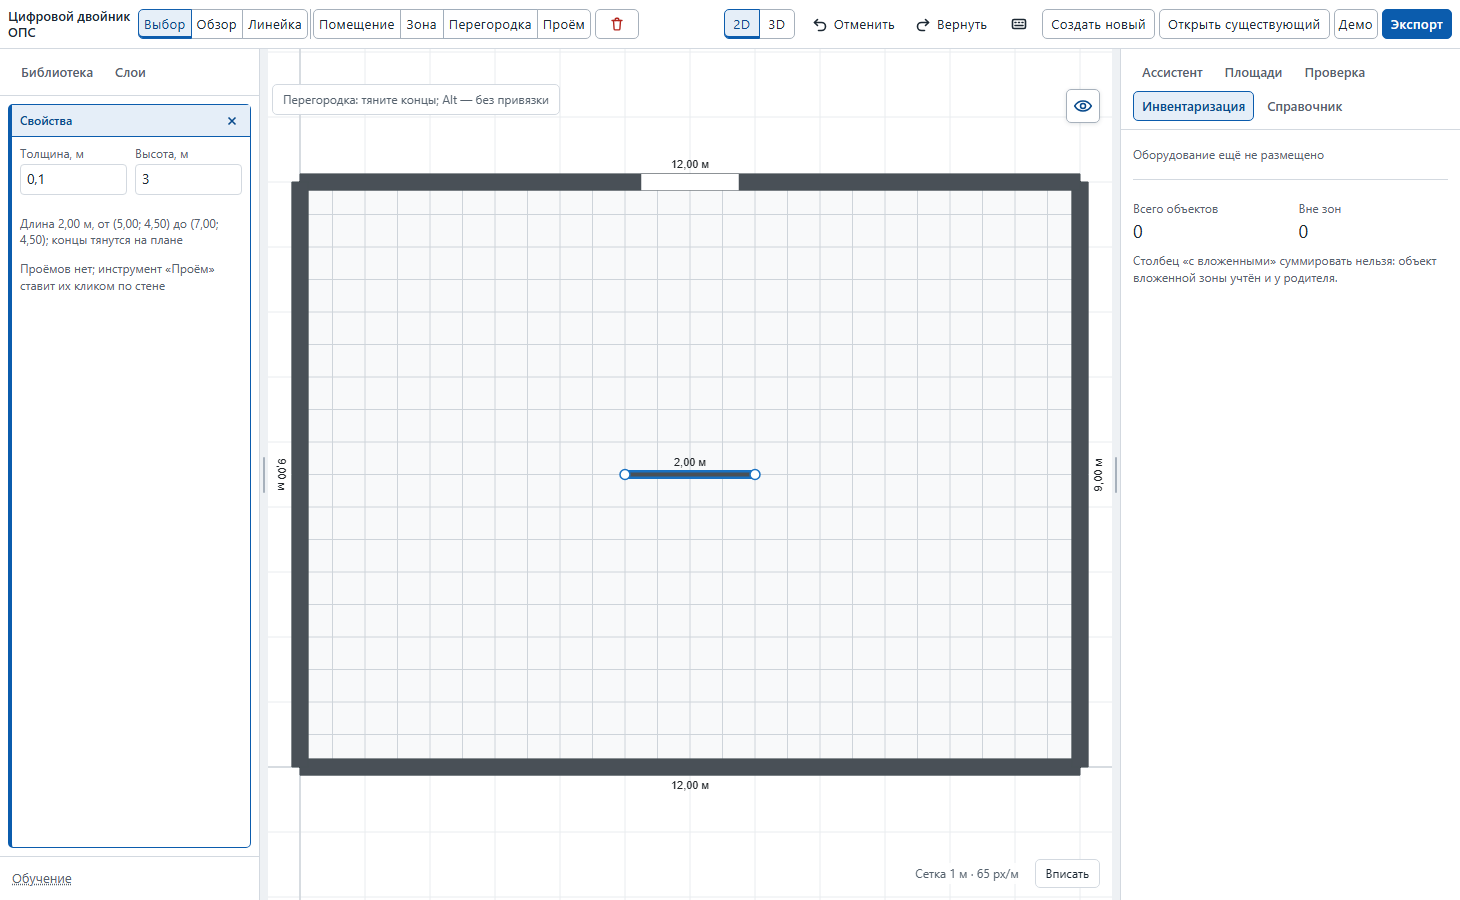
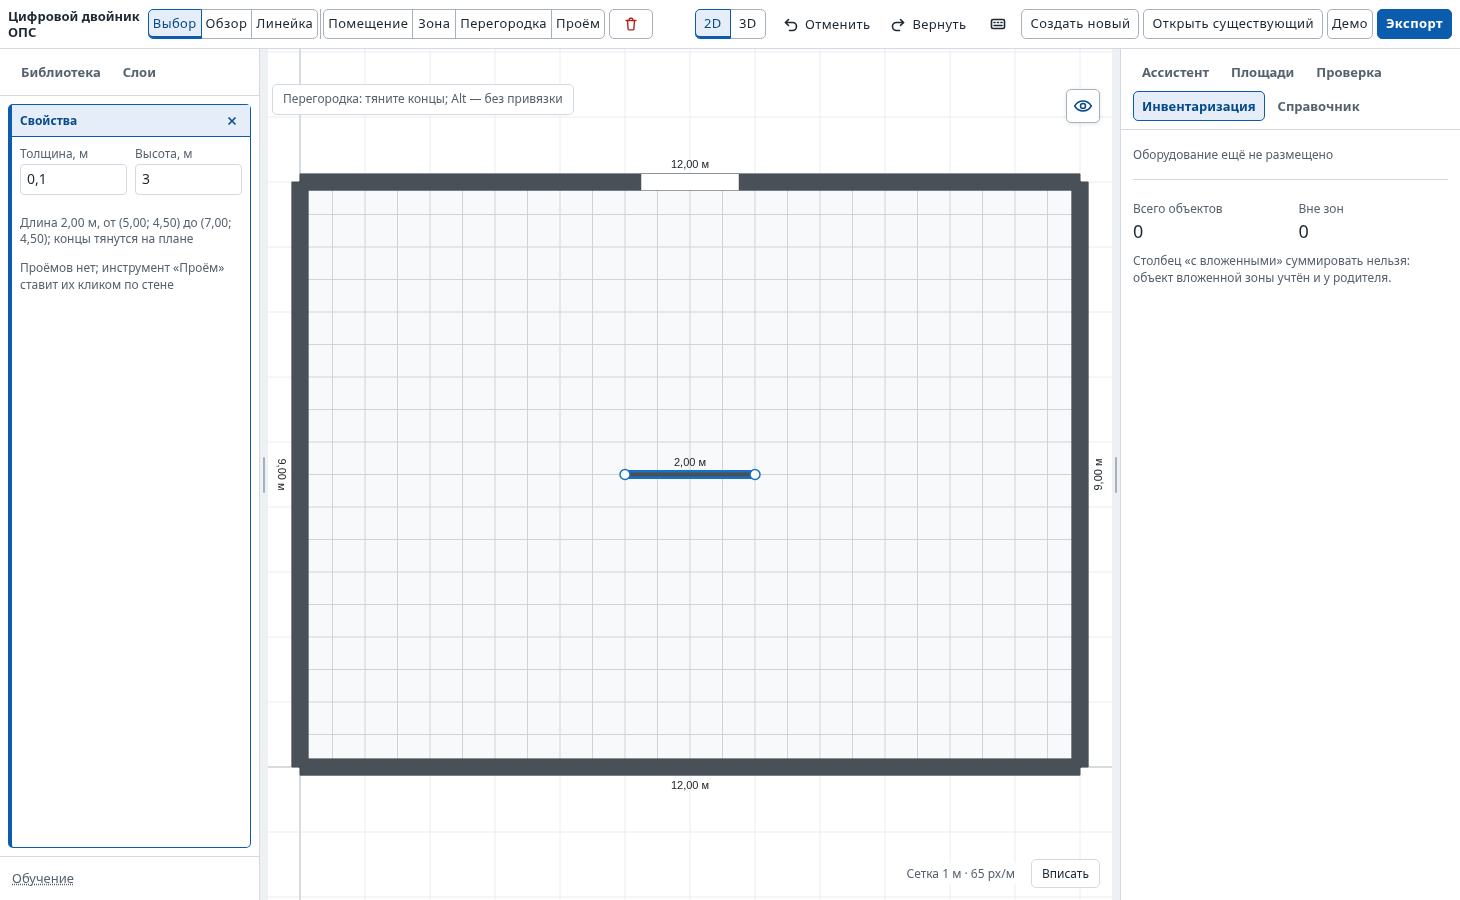
editor: запас шапки на Linux добран до 20 px, блокер #44 закрыт (D-313)
Продолжение MR !314 поверх коммита Максима: базовый вылет 13 px на 1280/1460
уже был закрыт D-316, но стресс-тест «шапка сохраняет запас при более
широких надписях» давал на Linux только 15,2/13,5 px против требуемых 20.
На каждой из шести подписанных кнопок инструментов снято по 1 px внутреннего
поля с каждой стороны (padding-inline 5px → 4px, ≤1500 px) — минимум 44 px и
подписи кнопок не тронуты, «Демо» остаётся отдельной видимой кнопкой.
Итог на Linux: 1280 px — 27,3 px запаса, 1460 px — 25,6 px; shell+open-demo+
onboarding зелёные дважды подряд (34/34), полный набор — 227 passed/1 flaky
(известная нестабильность focus.spec.ts:213)/5 skipped.

diff --git a/src/app/styles.css b/src/app/styles.css
@@ -979,7 +979,12 @@ body {
 
 @media (max-width: 1500px) {
   .toolbar__group-gap { margin-inline: 2px; }
-  .shell__bar .toolbar__button { min-width: 44px; padding-inline: 5px; }
+  /* D-313: D-316's 20 px slack still fell to 15.2/13.5 px on Linux system
+     fonts. One more pixel off each side of a tool button's padding (labelled
+     buttons only — the 44 px floor and icon buttons are untouched, since
+     icon buttons and «Зона» already sit at that floor) buys 12 px back
+     across the six labelled tools without shortening any name. */
+  .shell__bar .toolbar__button { min-width: 44px; padding-inline: 4px; }
 }
 
 /* D-261: the history goes icon-only below 1460 px (was 1400): at 1400–1459 px

diff --git a/docs/decisions.md b/docs/decisions.md
@@ -6,6 +6,7 @@
 
 | # | Дата | Решение | Почему | Отвергнутые варианты |
 |---|---|---|---|---|
+| D-313 | 2026-09-29 | Довели запас стресс-теста D-316 до требуемых 20 px на Linux: у него было 15,2 px на 1280 и 13,5 px на 1460 (Windows-прогон Максима зелёный, Linux-прогон команды — нет). Убрано ещё по 1 px горизонтального поля с каждой стороны у шести подписанных кнопок инструментов (`.shell__bar .toolbar__button`, `padding-inline: 5px → 4px`, ≤1500 px) — «Зона» и иконка «Удалить …» уже стояли на полу 44 px и не сдвинулись. Замер (свободная колонка `.shell__bar`, худшее состояние, стресс с увеличенным межбуквенным интервалом, Linux): 1280 — 15,2 → 27,3 px; 1460 — 13,5 → 25,6 px; `overflow` остаётся ≤ 0 на всех шести ширинах | Из трёх вариантов задачи (зазоры/поля групп; иконка вместо текста у второстепенного действия по D-254; «Демо» в меню «Открыть…») зазор ещё на 1 px — наименее заметная правка: подписи кнопок целы, интерактивная модель не меняется, «Демо» остаётся отдельной видимой кнопкой; 1 px по каждой стороне у 6 кнопок даёт 12 px — с запасом закрывает оба разрыва (4,8 и 6,5 px) без визуально ощутимого сжатия | Уменьшить `--control-h`/порог 44 px — запрещено брифом задачи; «Демо» иконкой или в меню «Открыть…» — меняет находимость и обучение (`onboarding/tour.ts`) ради небольшого разрыва, который закрывается полем; снизить порог `MIN_SLACK_PX` — тест перестал бы значить «запас для другого шрифта» |
 | D-316 | 2026-09-29 | На ширинах до 1500 px шапка отдаёт больше места кнопкам: сокращены боковые поля, межгрупповые зазоры и внутренние поля компактных инструментов; минимальная ширина кнопки инструмента остаётся 44 px. Контроль добавляет 0,4 px межбуквенного интервала к кнопкам, чтобы воспроизвести давление более широкого системного шрифта, и требует свободную колонку не уже 20 px при 1280, 1339, 1340, 1460 и 1500 px | На Linux после появления «Демо» шапка выходила за окно на 13 px; на Windows обычный шрифт скрывал ошибку. Зазор даёт запас для отличий шрифтов, а крупные области нажатия и названия остаются | Уменьшить шрифт или скрыть «Демо»; считать зелёный Windows-прогон доказательством исправления Linux без проверки командой |
 | D-312 | 2026-09-29 | Находка «нет инвентарного номера» — `OBJECT_MISSING_INVENTORY_NUMBER` рядом с `OBJECT_DUPLICATE_INVENTORY_NUMBER` в `validatePlan` (коды модуля, не контракт): предупреждение на каждый физический объект, у типа которого в справочнике объявлен атрибут `inventoryNumber`, а номер пуст (нет, `null`, пробелы, не строка и не число). Сообщение называет объект: «У объекта «…» нет инвентарного номера: впишите номер с ярлыка предмета в карточке.», ссылка и подсветка — след объекта. План, где номера нет ни у одного объекта, реестра не ведёт — находок нет | Специалист по инвентаризации видит предметы, которых нет в реестре: копии (D-311), стёртый в карточке номер, файлы без номеров. Предупреждение, как у дубля (D-266): геометрия цела, номер вводит человек. Без «тихого» правила пример организаторов получил бы 9 одинаковых строк поверх своих геометрических ловушек — тестового набора жюри. Демо-планы находок не получают (у всех 53/54 объектов номер есть): `before` 1/2 → `after` 0/0 не меняется | Ошибка вместо предупреждения; требовать номер у нефизических отметок (розетка, датчик) — это не инвентарь на полу, а их номер в демо — удобство, не обязанность; одна сводная находка «N объектов без номера» вместо строки на объект (не видно, какие) |
 | D-311 | 2026-09-29 | Копия (`Ctrl+C`/`Ctrl+V`, `Ctrl+D`) по-прежнему получает пустой номер (D-266 в силе), свежий номер серии ей не выдаётся; пустоту теперь называет находка D-312. Номер выдаётся там, где объект создаётся из библиотеки (клик и перетаскивание — одна точка `use-equipment-tool-controller.ts`) | Копия — это «такой же предмет» на время расстановки; реестровый номер ей даёт человек, когда предмет существует. Поведение пустого номера закреплено сценарием `tests/e2e/group-edit.spec.ts` (вставка → «Инвентарный номер» пуст) и D-243/D-266; менять его в том же пакете значило бы переписать чужой сценарий. Вариант ассистента («Вставить в план», `src/app/App.tsx` → `candidateObjectForInsert` в `src/domain/advice`) и «Своя фигура» (`src/features/plan-tools`) вне границ пакета: там номер пока не выдаётся, находка D-312 это показывает — подключение `withInventoryNumber` описано в отчёте #11 | Давать копии следующий номер серии (одна логика «новый объект — новый номер», но меняет закреплённое D-266 поведение и чужой e2e); сохранять номер оригинала (дубль — D-266) |

diff --git a/docs/verification/2026-09-29-header-overflow.md b/docs/verification/2026-09-29-header-overflow.md
@@ -10,3 +10,24 @@
 - Независимое ревью diff не выявило блокеров для draft MR; проверка исходного Linux-проявления остаётся обязательной перед merge.
 
 Это fallback проверки UI: доступные в этой сессии навыки полного UI/UX gate отсутствуют. Локальный Windows-прогон и искусственно расширенный шрифт не являются доказательством исправления именно на Linux. Автор исходной находки должен повторить `CI=1 npx playwright test tests/e2e/shell.spec.ts --workers=1` на Linux и подтвердить отсутствие вылета на 1280/1460 перед снятием блокера #44.
+
+## Проверка на Linux (D-313, продолжение #44 после ассайна на alecksandrchicherin)
+
+Исходный Linux-прогон **воспроизвёл** описанное выше: `DEV_PORT=5345 CI=1 npx playwright test tests/e2e/shell.spec.ts tests/e2e/open-demo.spec.ts --workers=1` — 26 passed, 2 failed. Красным был только новый стресс-тест `shell.spec.ts:164`: `overflow` ≤ 0 (переполнения нет), но `slack` меньше `MIN_SLACK_PX = 20` — **1280 px: 15,2 px, 1460 px: 13,5 px**. Базовый `shell.spec.ts:172` («одна строка…») зелёный на всех шести ширинах, `open-demo.spec.ts` зелёный — исходная находка #44 (13 px переполнения) закрыта уже коммитом D-316; красным был только новый запас.
+
+D-313 добрал недостающие 4,8/6,5 px, сняв ещё по 1 px горизонтального поля с каждой стороны у шести подписанных кнопок инструментов (`padding-inline: 5px → 4px`, `.shell__bar .toolbar__button`, ≤1500 px). Измерено отдельным Playwright-скриптом (та же стресс-модель: клик «Перегородка», две точки на холсте, `letter-spacing: 0.4px` на кнопках шапки) до и после правки:
+
+| Ширина | Slack до D-313 | Slack после D-313 | Порог |
+|---|---|---|---|
+| 1280 px | 15,2 px | **27,3 px** | ≥ 20 px |
+| 1460 px | 13,5 px | **25,6 px** | ≥ 20 px |
+
+После правки на Linux:
+
+- `DEV_PORT=5346 CI=1 npx playwright test tests/e2e/shell.spec.ts tests/e2e/open-demo.spec.ts tests/e2e/onboarding.spec.ts --workers=1` — **34 passed**, прогнано дважды подряд, оба раза зелёное.
+- `npm run typecheck && npm run lint && npm test -- --run && npm run build` — typecheck и lint без замечаний; `npm test` — 1624 passed, 1 skipped (без изменений от правки); `npm run build` — сборка успешна, предупреждение о крупных чанках уже существовало до правки и к CSS не относится.
+- Полный `DEV_PORT=5346 CI=1 npx playwright test --workers=2` (после `git merge origin/main`, свежий `main`) — **227 passed, 1 flaky, 5 skipped**. Единственный нестабильный тест — `tests/e2e/focus.spec.ts:213` («находка проверки и строка перечня приводят к объекту за стеной»), из списка известных нестабильных задачи (наряду с `custom-shape.spec.ts:76`, `inventory.spec.ts:106`); упал на первой попытке таймаутом 30 с, прошёл на повторе — к правке шапки не относится.
+- Снимки [1280](2026-09-29-header-1280.png) и [1460](2026-09-29-header-1460.png) переснят на Linux после D-313: «Демо» видна и кликабельна рядом с «Экспорт», все группы кнопок — в одну строку, без переноса и обрезки.
+- `bash .claude/hooks/check-secrets.sh` — пусто.
+
+Блокер #44 закрыт на Linux тем же окружением, где он был найден.

diff --git a/docs/tz-compliance.md b/docs/tz-compliance.md
@@ -26,7 +26,7 @@
 
 Дополнение к Р7: подсказка предмета учитывает текущий инструмент и объясняет путь в свойства; проверены клик и неизменность документа на 1280/1440 — [отчёт 29.09](verification/2026-09-29-hover-mode.md). Полный UI gate остаётся ограничением.
 
-Дополнение к интерфейсу редактора: шапка с кнопкой «Демо» сохраняет одну строку и запас ширины при разных размерах окна и имитации более широкого шрифта — [отчёт по #44](verification/2026-09-29-header-overflow.md). Исходный Linux-сбой ещё требует проверки командой до снятия блокера.
+Дополнение к интерфейсу редактора: шапка с кнопкой «Демо» сохраняет одну строку и запас ширины (≥ 20 px, `MIN_SLACK_PX`) при разных размерах окна и имитации более широкого шрифта, подтверждено на Linux (D-313) — [отчёт по #44](verification/2026-09-29-header-overflow.md), `tests/e2e/shell.spec.ts:164`.
 
 ## 1. Создание и редактирование плана — критерий 30%
 
